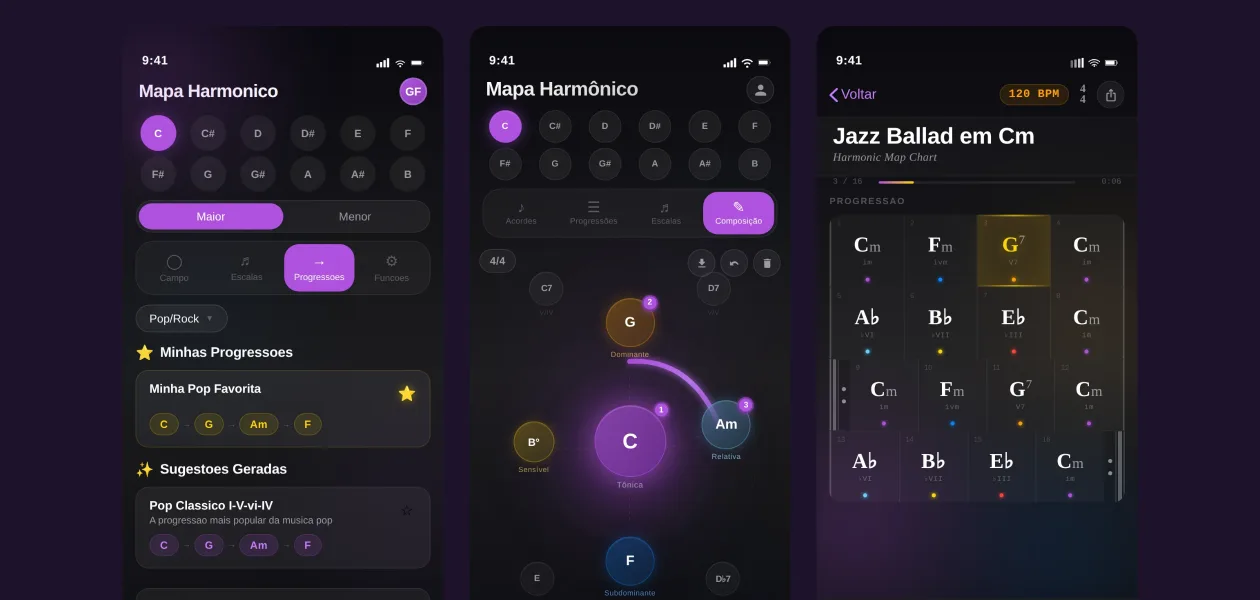
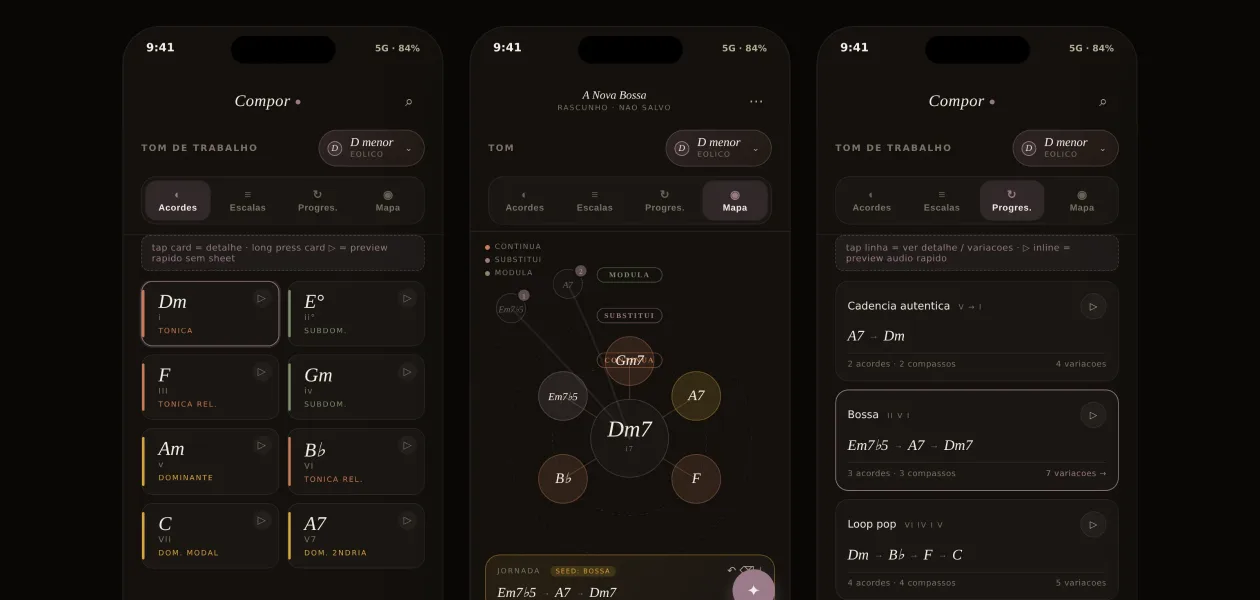
fix: telas do Tonika estavam no nome antigo e a fita de telas cortava na borda
Eu tinha pegado os prototipos 01-15 de figma-screens/, que ainda sao
"Mapa Harmonico" — o nome antigo — e ainda por cima em tres versoes de
navegacao diferentes misturadas. As telas atuais estao em
home-redesign.html: oito telas do fluxo v3, ja com a marca Tonika e a
paleta nova, capturadas frame a frame no .iphone em vez de viewport
inteira, entao nenhuma vem cortada no meio de um card.

A capa do card do Tonika foi refeita a partir dessas.

A fita de telas do modal tambem estava errada: com scroll horizontal, a
ultima tela era fatiada pela borda do modal e parecia defeito, nao
scroll. Virou grade que quebra linha — 4 colunas pra tela de celular,
2 pra tela deitada de dashboard (shotsWide).

Claude-Session: https://claude.ai/code/session_0116ipSWpU5cx2xedxUTsAL7

diff --git a/index.html b/index.html
@@ -908,29 +908,25 @@
       line-height: 1.65;
       color: var(--ink-soft);
     }
-    /* altura fixa em vez de largura fixa: as telas de celular e as de
-       dashboard convivem na mesma fita sem uma virar tarja ilegivel */
-    .modal__shots { display: flex; gap: 16px; overflow-x: auto; padding-bottom: 8px; }
-    .modal__shots figure { flex: 0 0 auto; width: fit-content; min-width: 168px; margin: 0; }
+    /* grade que quebra linha, nao fita horizontal: a fita cortava a ultima
+       tela no meio na borda do modal e parecia defeito, nao scroll */
+    .modal__shots {
+      display: grid;
+      grid-template-columns: repeat(auto-fill, minmax(140px, 1fr));
+      gap: 22px 16px;
+    }
+    /* telas de dashboard sao deitadas e precisam de coluna mais larga */
+    .modal__shots--wide { grid-template-columns: repeat(auto-fill, minmax(280px, 1fr)); }
+    .modal__shots figure { margin: 0; min-width: 0; }
     .modal__shots img {
       display: block;
-      height: 230px;
-      width: auto;
-      max-width: 100%;
+      width: 100%;
+      height: auto;
       border-radius: 10px;
       border: 1px solid var(--border);
       background: var(--thumb-from);
     }
-    /* width:0 + min-width:100% impede a legenda de esticar a figura:
-       a largura vem da imagem, o texto so quebra dentro dela */
-    .modal__shots figcaption {
-      width: 0;
-      min-width: 100%;
-      font-size: 11px;
-      color: var(--gray);
-      margin-top: 8px;
-      line-height: 1.4;
-    }
+    .modal__shots figcaption { font-size: 11px; color: var(--gray); margin-top: 8px; line-height: 1.4; }
     .modal__sub { border: 1px solid var(--border); border-radius: var(--radius); padding: 12px 16px; margin-bottom: 8px; }
     .modal__sub-head { display: flex; justify-content: space-between; gap: 8px; font-size: 14px; margin-bottom: 4px; }
     .modal__sub-head strong { font-weight: 800; }
@@ -1205,15 +1201,14 @@
         },
         github: 'https://github.com/Gchapolin/harmonicmapapp',
         screenshots: [
-          { src: 'assets/screens/tonika/01-acordes.webp', caption: { en: 'Chords — harmonic field with the tonal function of each degree', pt: 'Acordes — campo harmônico com a função tonal de cada grau' } },
-          { src: 'assets/screens/tonika/02-detalhe-acorde.webp', caption: { en: 'Chord detail — notes, intervals and tonal function', pt: 'Detalhe do acorde — notas, intervalos e função tonal' } },
-          { src: 'assets/screens/tonika/03-progressoes.webp', caption: { en: 'Progressions — popular templates by genre', pt: 'Progressões — templates populares por gênero' } },
-          { src: 'assets/screens/tonika/04-escalas.webp', caption: { en: 'Scales — basic scales and Greek modes', pt: 'Escalas — escalas básicas e modos gregos' } },
-          { src: 'assets/screens/tonika/05-detalhe-escala.webp', caption: { en: 'Scale detail — interval pattern and sonority', pt: 'Detalhe da escala — padrão de intervalos e sonoridade' } },
-          { src: 'assets/screens/tonika/06-composicao.webp', caption: { en: 'Composition — radial map: tonic at the center, secondary dominants in the outer ring', pt: 'Composição — mapa radial: tônica no centro, dominantes secundárias no anel externo' } },
-          { src: 'assets/screens/tonika/07-variacoes.webp', caption: { en: 'Variation Assistant — variations, harmonic suggestions and substitutions', pt: 'Assistente de Variações — variações, sugestões harmônicas e substituições' } },
-          { src: 'assets/screens/tonika/08-minhas-composicoes.webp', caption: { en: 'My Compositions — saved progressions', pt: 'Minhas Composições — progressões salvas' } },
-          { src: 'assets/screens/tonika/09-player.webp', caption: { en: 'Player — 16-bar chart with BPM and real playback', pt: 'Player — grade de 16 compassos com BPM e playback real' } }
+          { src: 'assets/screens/tonika/01-home.webp', caption: { en: 'Home — what you were composing, the library and the entry point for a new piece', pt: 'Home — o que você estava compondo, a biblioteca e a porta de entrada pra uma peça nova' } },
+          { src: 'assets/screens/tonika/02-nova-composicao.webp', caption: { en: 'New composition, step 1 — name and intent come before any music theory', pt: 'Nova composição, passo 1 — nome e intenção vêm antes de qualquer teoria' } },
+          { src: 'assets/screens/tonika/03-tom.webp', caption: { en: 'New composition, step 2 — the key picked on the circle of fifths', pt: 'Nova composição, passo 2 — o tom escolhido no círculo das quintas' } },
+          { src: 'assets/screens/tonika/04-acordes.webp', caption: { en: 'Chords — the harmonic field of the working key, each degree with its tonal function', pt: 'Acordes — o campo harmônico do tom de trabalho, cada grau com a sua função tonal' } },
+          { src: 'assets/screens/tonika/05-detalhe-acorde.webp', caption: { en: 'Chord detail — notes, intervals, function in the key and suggested voicings', pt: 'Detalhe do acorde — notas, intervalos, função no tom e voicings sugeridos' } },
+          { src: 'assets/screens/tonika/06-progressoes.webp', caption: { en: 'Progressions — cadences and loops, each with its variation count', pt: 'Progressões — cadências e loops, cada um com a contagem de variações' } },
+          { src: 'assets/screens/tonika/07-progressao.webp', caption: { en: 'Progression open — the chords in sequence and the variations built from them', pt: 'Progressão aberta — os acordes em sequência e as variações construídas a partir deles' } },
+          { src: 'assets/screens/tonika/08-mapa.webp', caption: { en: 'Map — the composition as a path: the current chord at the center, where it can go around it', pt: 'Mapa — a composição como caminho: o acorde atual no centro, pra onde ele pode ir em volta' } }
         ],
         highlight: {
           en: '1,119 green tests under Swift 6 strict concurrency, 26 genre styles with real playback, and a chord-name vs solfege toggle rare in the category — with documented trade-off decisions, like refusing a risky SwiftData schema migration before launch',
@@ -1246,6 +1241,7 @@
           ]
         },
         github: null,
+        shotsWide: true,
         screenshots: [
           { src: 'assets/screens/graphify/01-grafo.webp', caption: { en: 'Generated graph — 966 nodes, 1,864 edges and 74 communities extracted from one of my own repos', pt: 'Grafo gerado — 966 nós, 1.864 arestas e 74 comunidades extraídos de um repositório meu' } }
         ],
@@ -1359,6 +1355,7 @@
           ]
         },
         live: 'https://eternal-pyre.fly.dev',
+        shotsWide: true,
         screenshots: [
           { src: 'assets/screens/eternalpyre/01-menu.webp', caption: { en: 'Main menu — solo, multiplayer, high scores', pt: 'Menu — solo, multiplayer e recordes' } },
           { src: 'assets/screens/eternalpyre/02-herois.webp', caption: { en: 'Hero select — eight classes, each with its own stats and ability set', pt: 'Escolha de herói — oito classes, cada uma com atributos e habilidades próprias' } },
@@ -1400,6 +1397,7 @@
           ]
         },
         github: 'https://github.com/Gchapolin/kpi-tree-game',
+        shotsWide: true,
         screenshots: [
           { src: 'assets/screens/kpitree/01-arvore.webp', caption: { en: 'Tree — the North Star on the left, execution levers to the right, each metric as a boss with HP', pt: 'Árvore — a North Star à esquerda, as alavancas de execução à direita, cada métrica como um chefe com HP' } },
           { src: 'assets/screens/kpitree/02-arena.webp', caption: { en: 'Arena — the metric as a boss, the areas as players, and a battle log of every hit', pt: 'Arena — a métrica como chefe, as áreas como jogadores e um log de batalha a cada golpe' } },
@@ -2068,7 +2066,7 @@
 
       if (p.screenshots && p.screenshots.length) {
         html += '<h4 class="modal__section-title">' + ui('modalShots') + '</h4>';
-        html += '<div class="modal__shots">' + p.screenshots.map(function (shot) {
+        html += '<div class="modal__shots' + (p.shotsWide ? ' modal__shots--wide' : '') + '">' + p.screenshots.map(function (shot) {
           return '<figure><img src="' + shot.src + '" alt="' + t(shot.caption) + '" loading="lazy"><figcaption>' + t(shot.caption) + '</figcaption></figure>';
         }).join('') + '</div>';
       }
